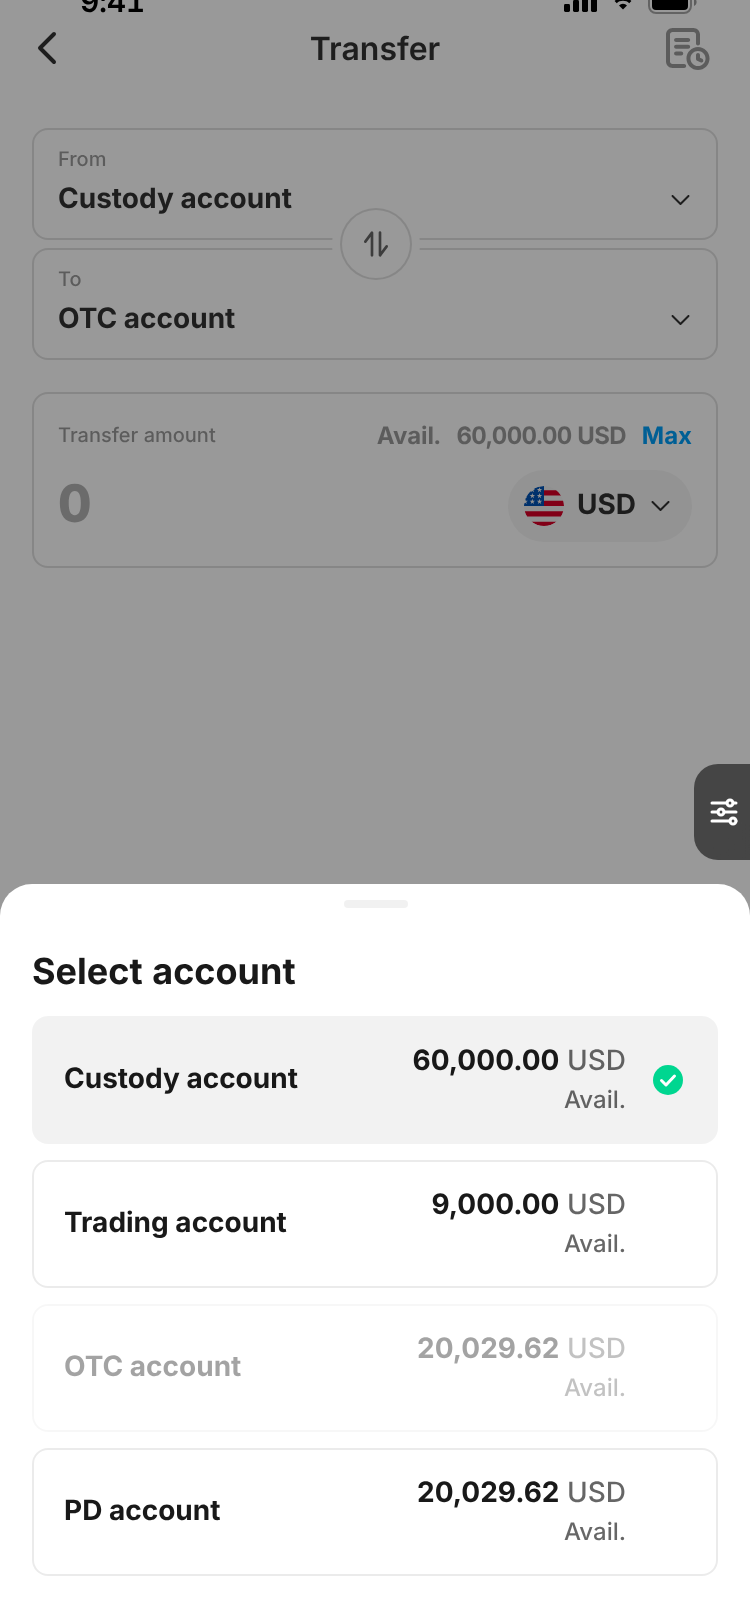
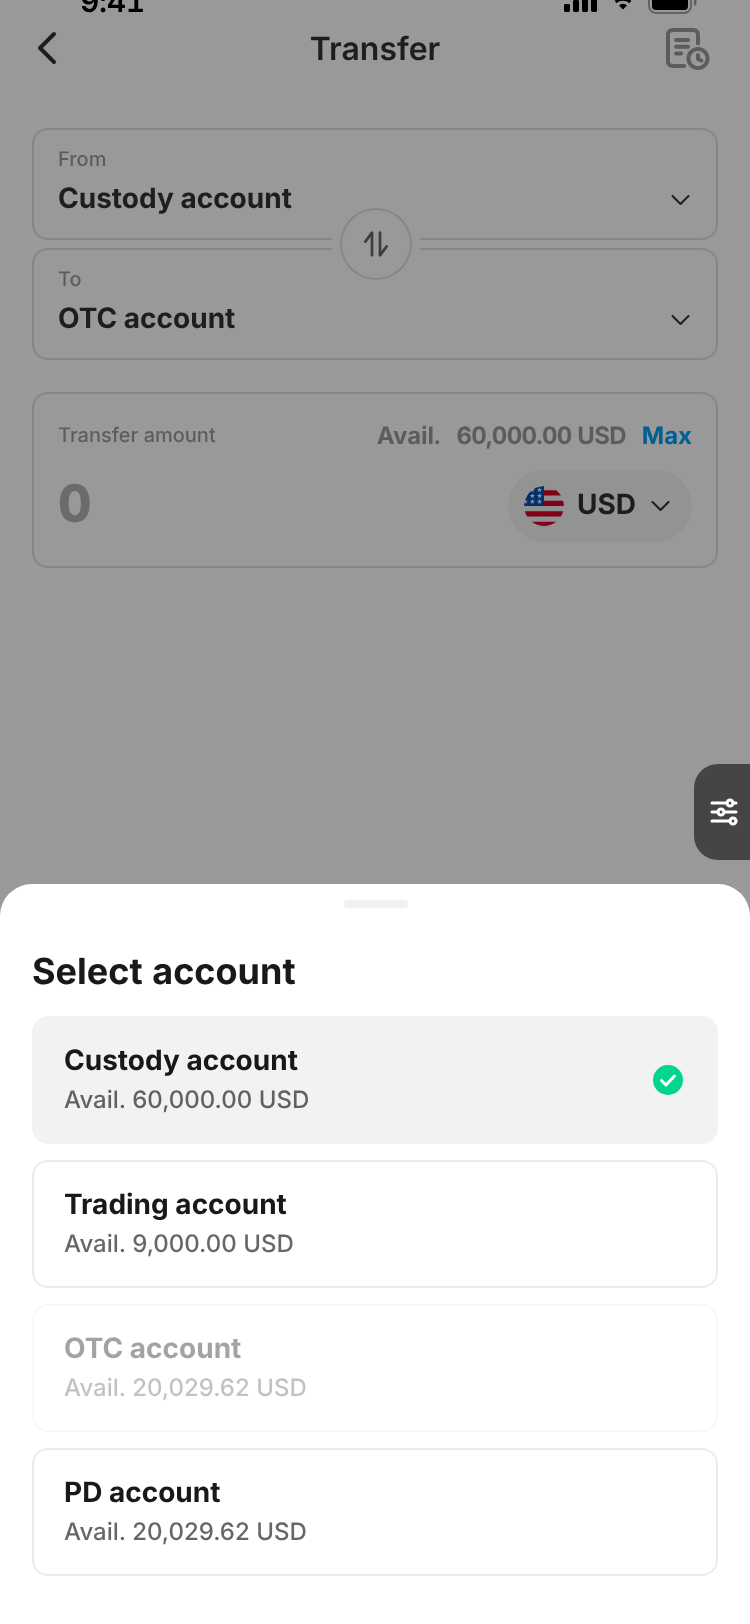
Transfer account cells: Avail. balance + currency under the account name
Claude-Session: https://claude.ai/code/session_01Qqdcu5gqMTkpqmYQRkdzYH

diff --git a/OtcSession.jsx b/OtcSession.jsx
@@ -1286,7 +1286,7 @@ const Transfer = () => {
           tag: CCY[c].pi ? "PI" : undefined,
         }))}
       />
-      {/* Accounts: same cell as the currency sheet, the asset's balance on the right. */}
+      {/* Accounts: same cell as the currency sheet; the asset's balance sits under the name. */}
       <TokenSheet
         open={pick === "from" || pick === "to"}
         title="Select account"
@@ -1299,8 +1299,7 @@ const Transfer = () => {
         options={ACCTS.map(([k, name]) => ({
           value: k,
           label: name,
-          balance: fmtCcy(s.bal[k][t.asset] || 0, t.asset),
-          unit: t.asset,
+          name: `Avail. ${fmtCcy(s.bal[k][t.asset] || 0, t.asset)} ${t.asset}`,
           disabled: k === (pick === "to" ? t.from : t.to),
         }))}
       />
